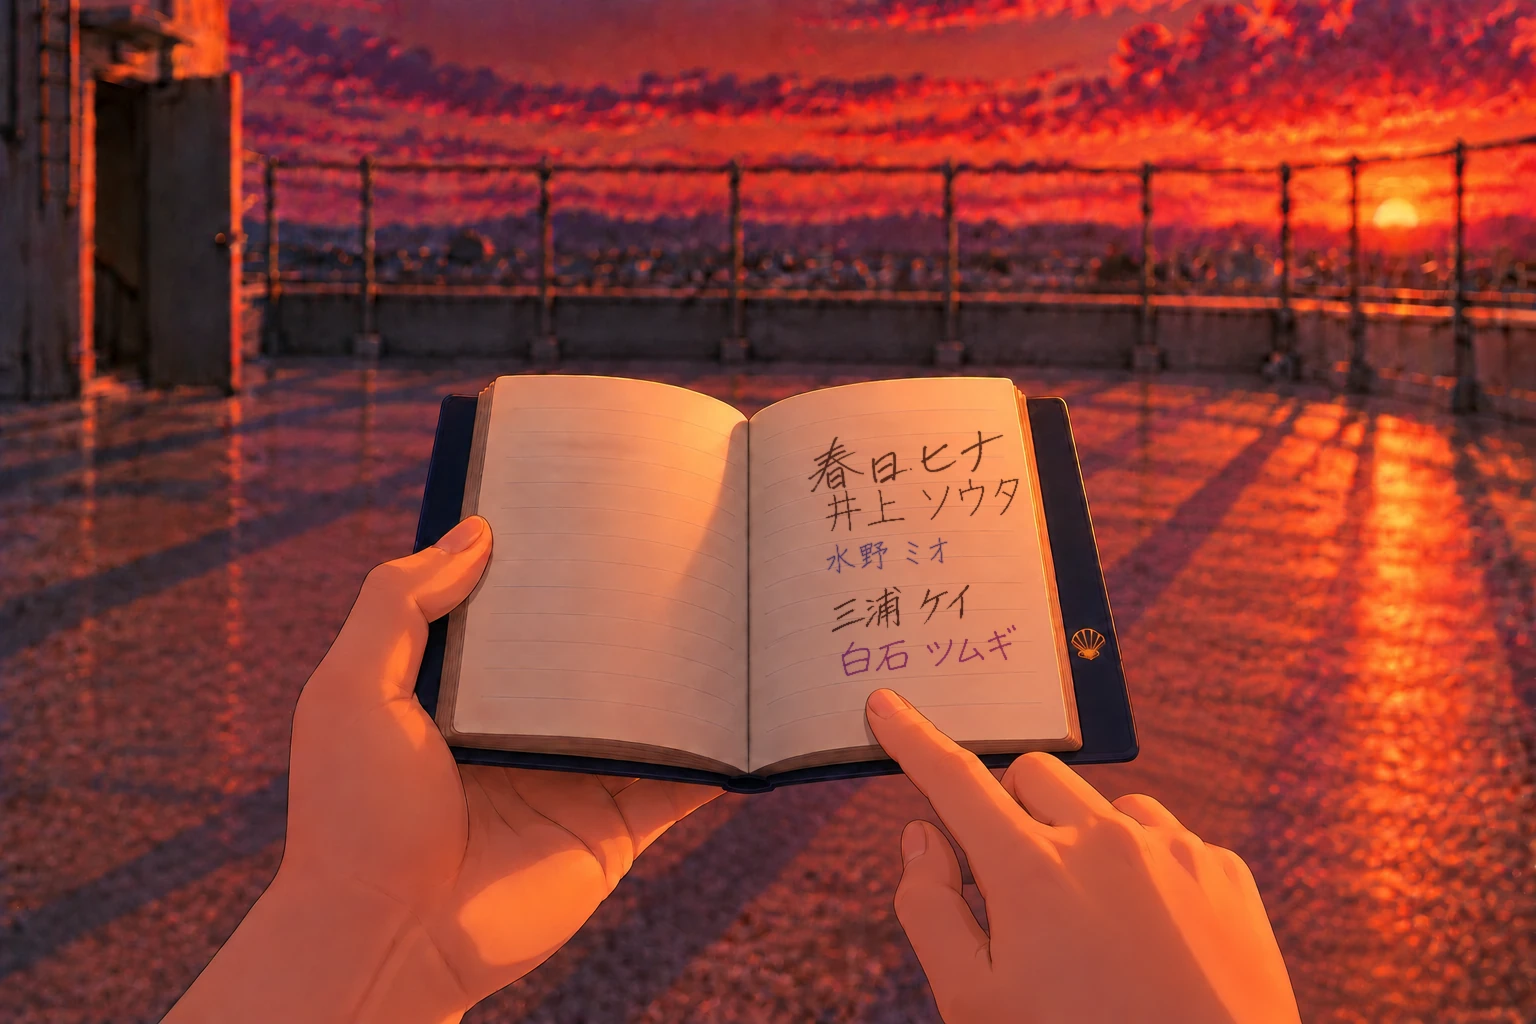
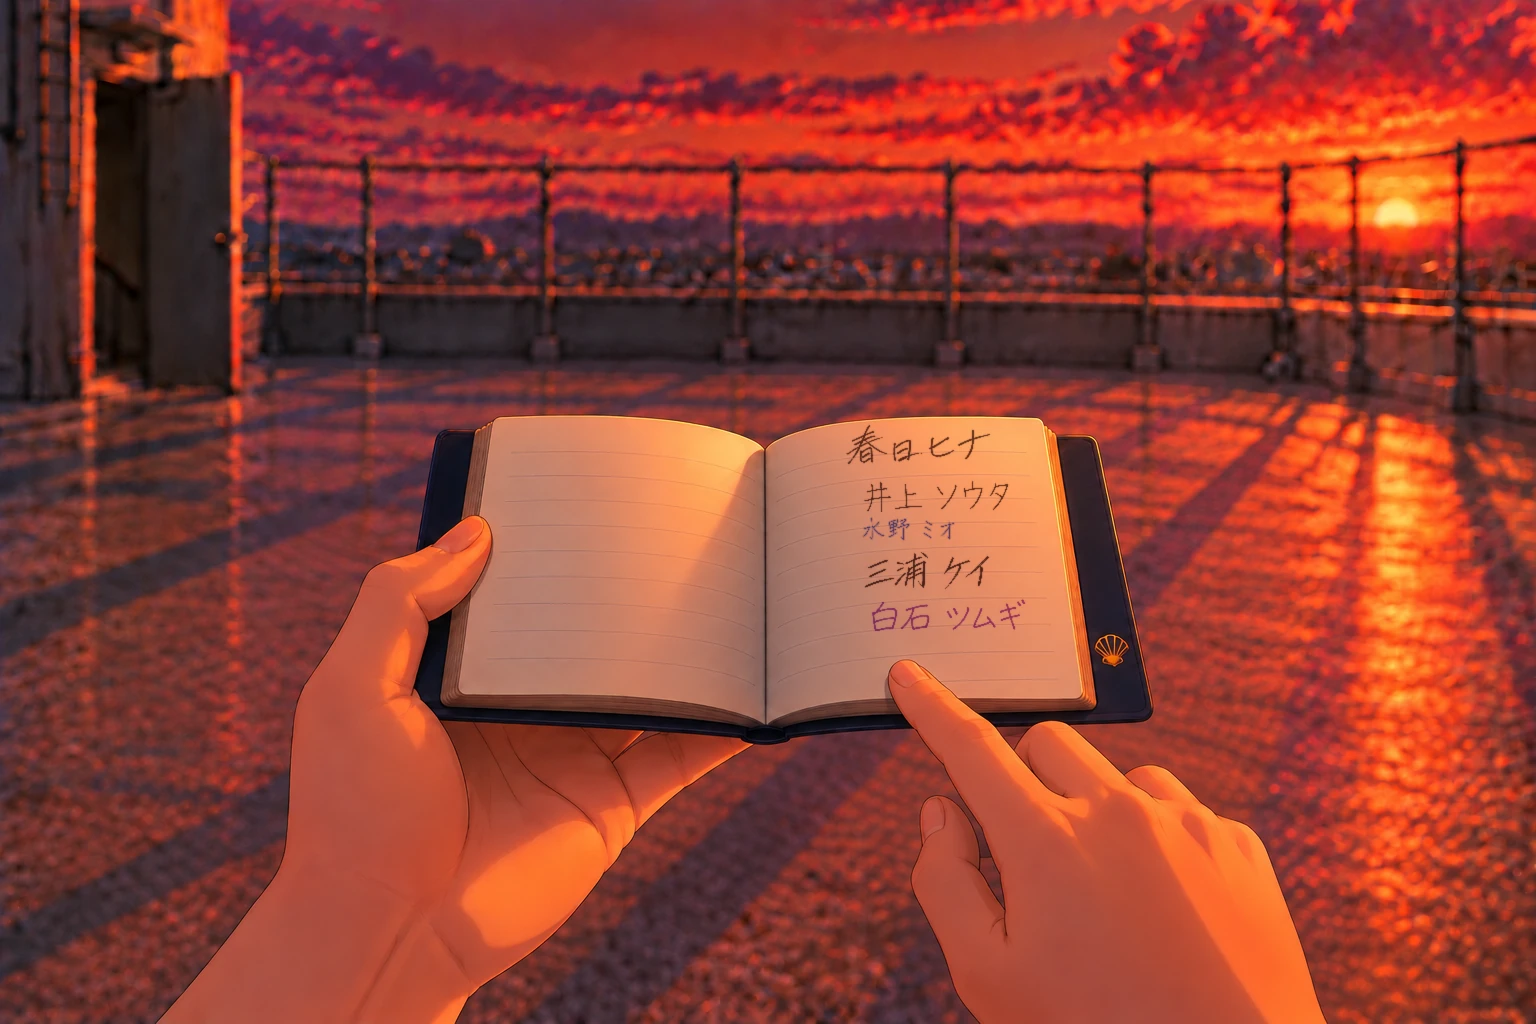
なぞる絵の手帳を床の絵と同じ形に描き直し、名前の位置と横幅をそろえる

diff --git a/index.html b/index.html
@@ -70,9 +70,9 @@
   .cutin.show { opacity: 1; transform: none; }
   .cutin img { position: absolute; inset: 0; width: 100%; height: 100%; object-fit: cover; max-width: none; }
   .cutin .clock-hands { position: absolute; inset: 0; width: 100%; height: 100%; }
-  /* 屋上の手帳をなぞる：拾って開いた手帳の絵（protag_notebook_front）で、右ページの名前のところへ寄る（中心 885,545・2.3倍。生徒手帳は手のひらにのる大きさなので、強めに寄る） */
+  /* 屋上の手帳をなぞる：拾って開いた手帳の絵（protag_notebook_front）で、右ページの名前のところへ寄る（中心 930,560・2.6倍。生徒手帳は手のひらにのる大きさなので、強めに寄る） */
   .cutin.nbz { pointer-events: auto; }
-  .nbz-in { position: absolute; inset: 0; transform-origin: 57.62% 53.22%; transform: translate(-7.62%, -3.22%) scale(2.3); transition: transform 1.4s cubic-bezier(.3, .6, .2, 1); }
+  .nbz-in { position: absolute; inset: 0; transform-origin: 60.55% 54.69%; transform: translate(-10.55%, -4.69%) scale(2.6); transition: transform 1.4s cubic-bezier(.3, .6, .2, 1); }
   .nbz-in.far { transform: none; transition: none; }
   .cutin .nbz-in img { position: absolute; inset: 0; width: 100%; height: 100%; object-fit: cover; }
   .nbz-row { position: absolute; padding: 0; border: 0; background: none; cursor: pointer; -webkit-tap-highlight-color: transparent; }
@@ -1361,7 +1361,7 @@
     $('#scene').classList.add('cut');
   }
   // 屋上の手帳：名前の行に触れてなぞる。done はなぞり終えた子。返り値は子の id か 'blank'（6行目）
-  const NB_ROWS = [['art', 908, 456, 212, 50, -5.5], ['music', 924, 503, 208, 44, -5.5], ['library', 888, 554, 134, 36, -5.5], ['gym', 902, 607, 154, 48, -5.5], ['infirmary', 931, 650, 188, 40, -5.5], ['blank', 870, 698, 190, 36, -5.5]];   // [子, 中心x, 中心y, 長さ, 高さ, 罫線の傾き(度)]。座標は protag_notebook_front（手帳を拾って両手で開いた絵）1536×1024 基準。罫線は右上がり（約5.5°）。名前の大きさとページ内の位置は、床に落ちている手帳の絵（protag_notebook_dusk）にそろえた。6人目の行が白い行で、指先がそこに触れている
+  const NB_ROWS = [['art', 918, 450, 164, 46, -0.6], ['music', 936, 500, 164, 40, -0.6], ['library', 908, 532, 108, 30, -0.6], ['gym', 926, 578, 142, 42, -0.6], ['infirmary', 948, 620, 172, 38, -0.6], ['blank', 925, 668, 260, 30, -0.6]];   // [子, 中心x, 中心y, 長さ, 高さ, 罫線の傾き(度)]。座標は protag_notebook_front（手帳を拾って両手で開いた絵）1536×1024 基準。罫線はほぼ水平（11/01 に手帳の形を床の絵にそろえて描き直した）。名前の大きさとページ内の位置は、床に落ちている手帳の絵（protag_notebook_dusk）にそろえた。6人目の行が白い行で、指先がそこに触れている
   function traceName(done, zoom) {
     const order = NB_ROWS.map(r => r[0]).filter(k => k !== 'blank' && !done.includes(k));
     if (replay) {   // 早送り：記録した名前を使う（この仕組みより前のセーブには記録がないので、上から順に）
